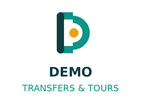
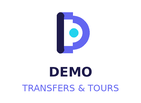
Demo: Indigo palette
Indigo sidebar #1e1b4b, indigo buttons #6366f1, cyan accent #22d3ee, page
#f7f7fc; e-mail header in the same indigo. Logo mark, PWA icons and the
voucher logo/header redrawn to match (stamp stays blue ink).

Claude-Session: https://claude.ai/code/session_01YUPJyDpWq95mKLVByedGBS

diff --git a/config/business.php b/config/business.php
@@ -72,22 +72,22 @@ return [
     | Filament's primary colour, the dashboard chart and the e-mails use them directly.
     */
     'colors' => [
-        'primary' => env('BUSINESS_COLOR_PRIMARY', '#0d9488'),       // teal
-        'primary_light' => '#14b8a6',
-        'primary_dark' => '#0f766e',
-        'primary_soft' => '#e6f6f4',
-        'navy' => env('BUSINESS_COLOR_NAVY', '#0f3d3e'),              // sidebar, PWA bar
-        'navy_light' => '#14504f',
-        'navy_deep' => '#092829',
-        'accent' => env('BUSINESS_COLOR_ACCENT', '#f59e0b'),          // amber
-        'page' => '#f4f7f7',
+        'primary' => env('BUSINESS_COLOR_PRIMARY', '#6366f1'),       // indigo
+        'primary_light' => '#818cf8',
+        'primary_dark' => '#4f46e5',
+        'primary_soft' => '#eef0ff',
+        'navy' => env('BUSINESS_COLOR_NAVY', '#1e1b4b'),              // sidebar (deep indigo), PWA bar
+        'navy_light' => '#2e2a6b',
+        'navy_deep' => '#13113a',
+        'accent' => env('BUSINESS_COLOR_ACCENT', '#22d3ee'),          // cyan
+        'page' => '#f7f7fc',
         // E-mail header (a deeper navy gradient, light text on it).
-        'mail_header' => '#0c3536',
-        'mail_header_from' => '#14504f',
-        'mail_header_to' => '#082223',
-        'mail_header_text' => '#a7d8d2',
-        'mail_header_chip' => '#1f5f5d',
-        'mail_wordmark' => '#5eead4',
+        'mail_header' => '#1a1745',
+        'mail_header_from' => '#2e2a6b',
+        'mail_header_to' => '#110f33',
+        'mail_header_text' => '#c7c9f9',
+        'mail_header_chip' => '#3a3585',
+        'mail_wordmark' => '#67e8f9',
     ],
 
     /*
